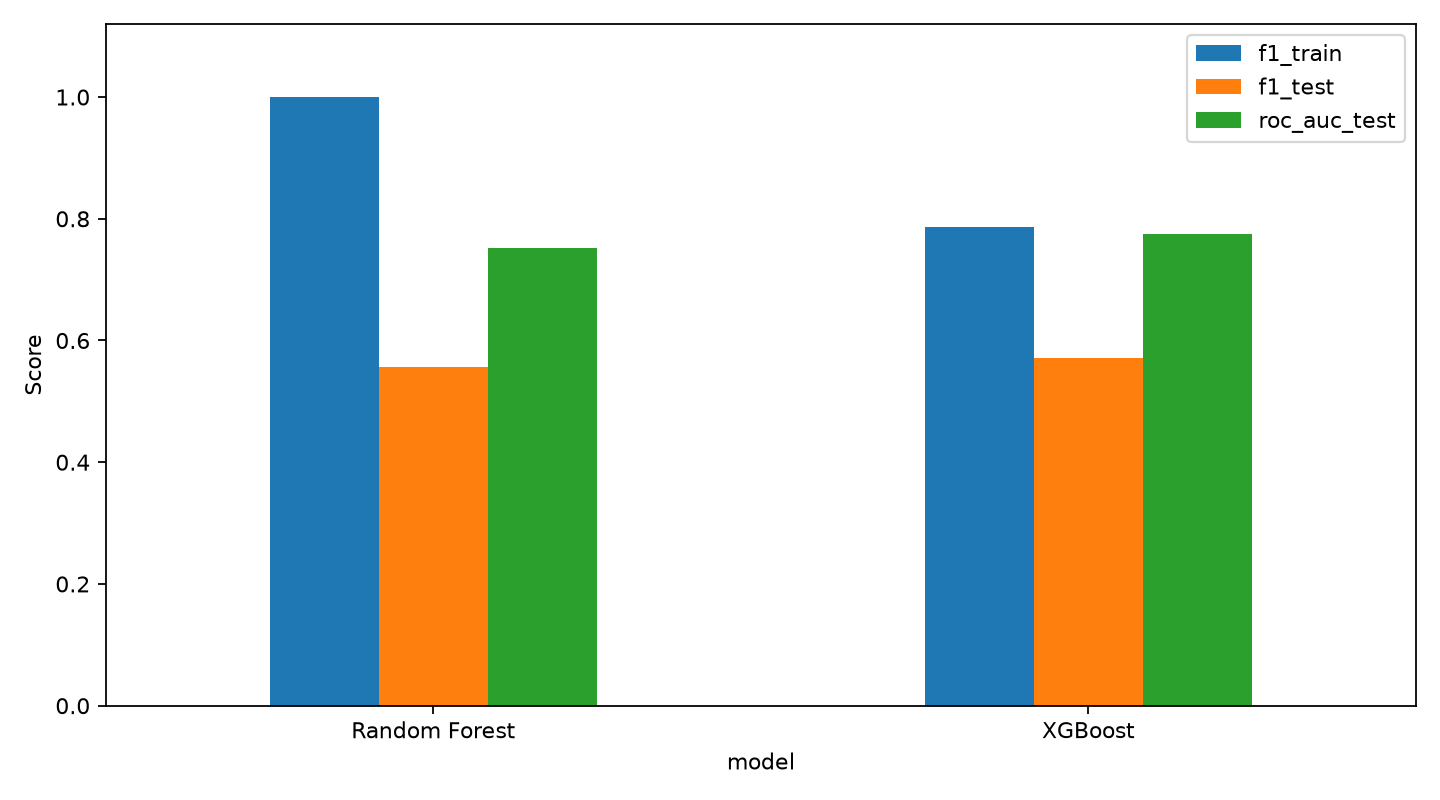
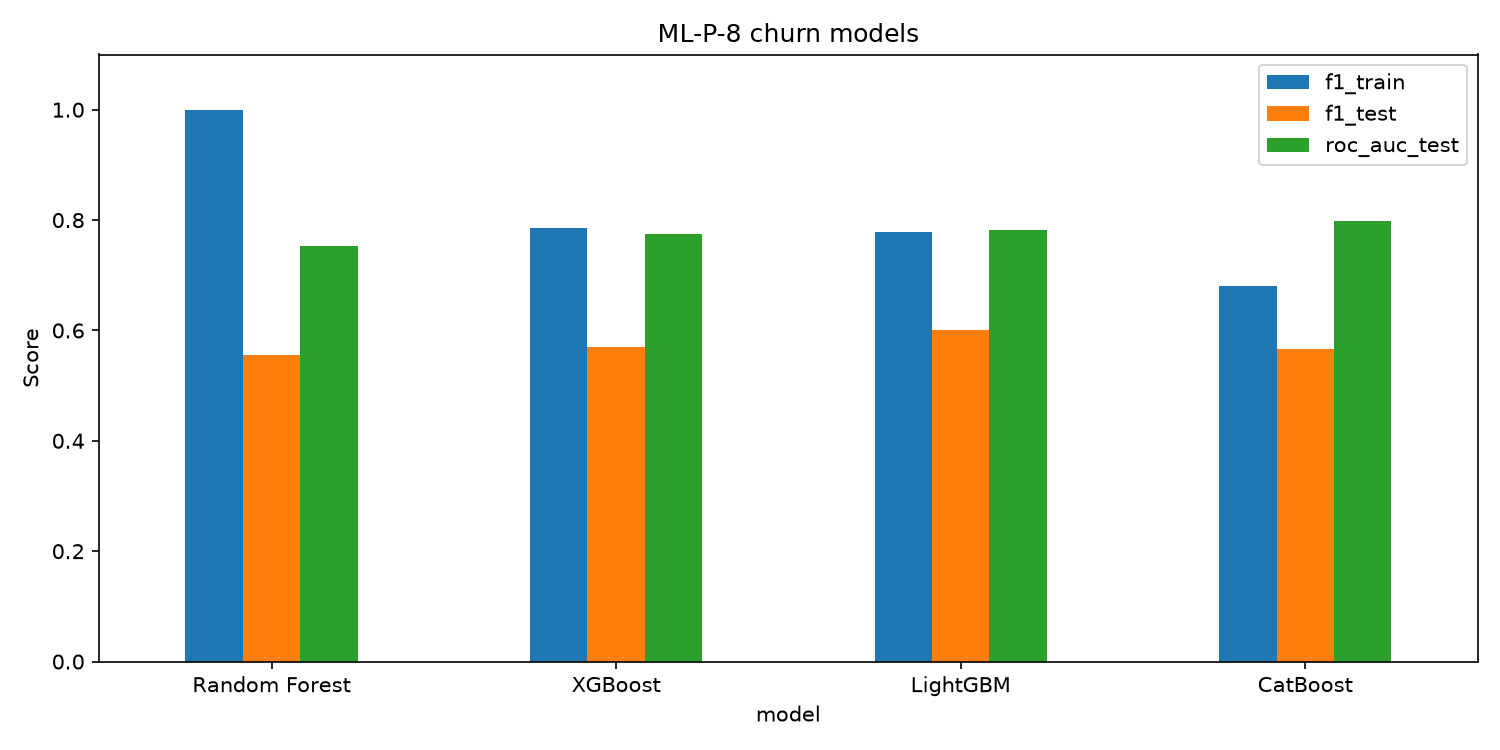
Add computed ML metrics, charts and 7-slide presentation

diff --git a/outputs/report.md b/outputs/report.md
@@ -1,12 +1,15 @@
-# Результаты ML-P-8
+# Фактические результаты по CSV
 
-Train: 2400; test: 600; stratified split 80/20; seed 42.
+3000 абонентов, train 2400, test 600,
+единый random_state=42 и stratify=y.
 
-| Модель | F1 train | F1 test | ROC-AUC test | Время, с | Разрыв F1 |
-|---|---:|---:|---:|---:|---:|
-| Random Forest | 1.000 | 0.556 | 0.752 | 0.327 | 0.444 |
-| XGBoost | 0.786 | 0.571 | 0.775 | 0.134 | 0.216 |
+| Модель | F1 train | F1 test | ROC-AUC test | Обучение, с | Инференс, с | Размер, КБ | Δ F1 |
+|---|---:|---:|---:|---:|---:|---:|---:|
+| Random Forest | 1.000 | 0.556 | 0.752 | 0.190 | 0.00733 | 8273.6 | 0.444 |
+| XGBoost | 0.786 | 0.571 | 0.775 | 0.071 | 0.00203 | 444.1 | 0.216 |
+| LightGBM | 0.778 | 0.602 | 0.781 | 0.047 | 0.00510 | 415.3 | 0.176 |
+| CatBoost | 0.681 | 0.566 | 0.798 | 0.370 | 0.00047 | 115.6 | 0.116 |
 
-**Лучший по F1 test: XGBoost.**
+**Лучший бустинг по ROC-AUC test:** CatBoost (0.798). **Лучший по F1 test:** LightGBM (0.602).
 
-Для производства проверьте кросс-валидацию, подбор порога и стоимость ошибок.
+Одно ядро; 5 замеров после исключения первого, медиана обучения. Инференс — 5 повторов для 600 строк. Размер модели: pickle обученной модели/Pipeline. CatBoost — native region/tariff; остальные — one-hot.
